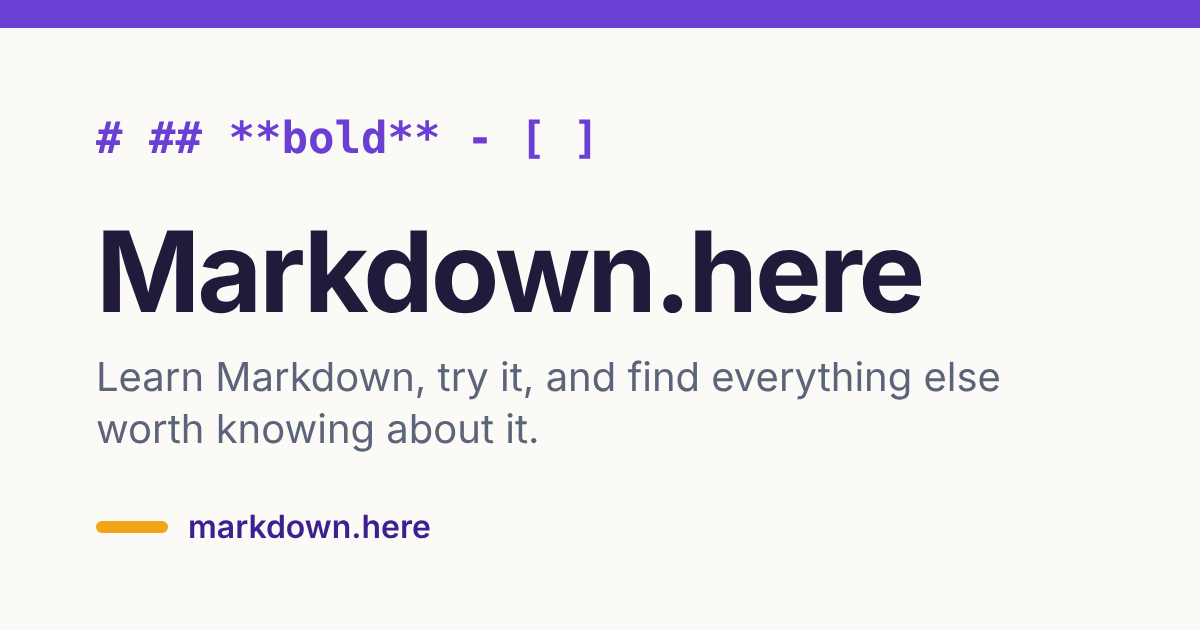
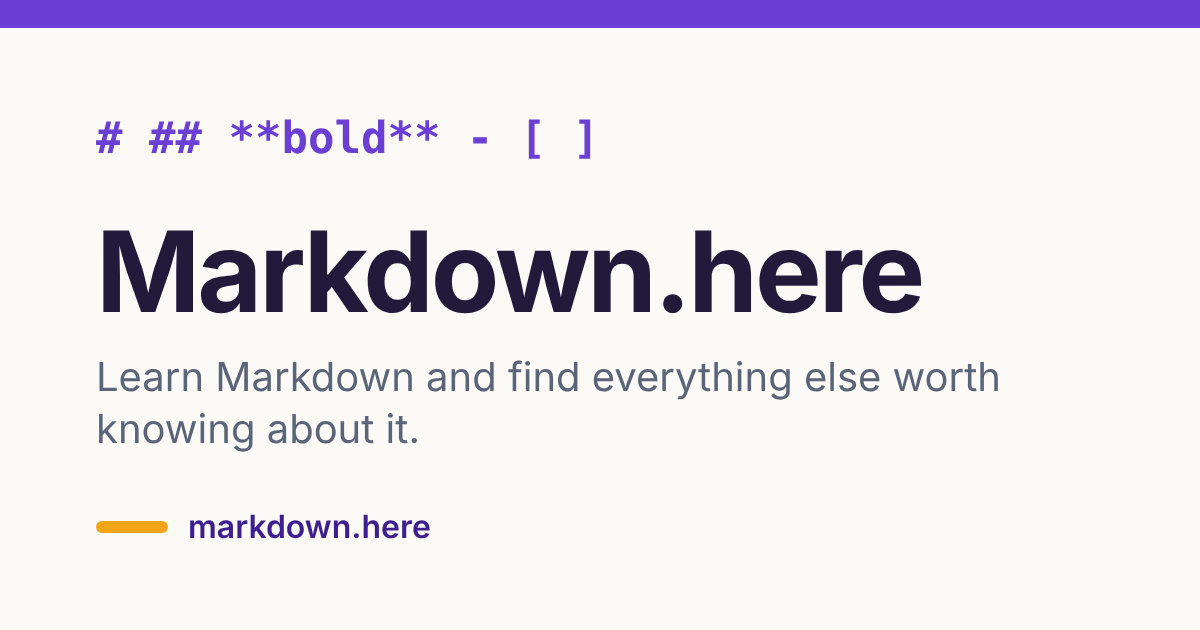
Website: less space above the home headline, drop "try it"
The home headline sat 72px below the top bar; now about 24px. The
tagline, site description, and share image no longer say "try it",
since the site has no place to try Markdown yet.

Claude-Session: https://claude.ai/code/session_01EPHxHaZryPxDov7n76b2BB

Changed region(s): [[0.3392, 0.573, 0.8325, 0.6333], [0.0617, 0.6635, 0.4625, 0.7238]]

diff --git a/site/assets/css/custom.css b/site/assets/css/custom.css
@@ -43,3 +43,7 @@
 /* Markdown headings inside code examples: the default grey is too faint */
 .chroma .gh, .chroma .gu { color: #3e1f8f; font-weight: 600; }
 .dark .chroma .gh, .dark .chroma .gu { color: #c9b8f7; }
+
+/* Home page: Hextra leaves a tall gap above the headline */
+.mdh-hero { margin-top: -1.5rem; }
+@media (max-width: 767px) { .mdh-hero { margin-top: -1rem; } }

diff --git a/site/content/_index.md b/site/content/_index.md
@@ -2,10 +2,10 @@
 type: Readme
 title: Markdown.here
 layout: hextra-home
-description: Learn Markdown, try it, and find everything else worth knowing about it.
+description: Learn Markdown and find everything else worth knowing about it.
 ---
 
-<div class="hx:mt-6 hx:mb-6">
+<div class="mdh-hero hx:mb-6">
 {{< hextra/hero-headline >}}
   Learn Markdown here
 {{< /hextra/hero-headline >}}
@@ -13,7 +13,7 @@ description: Learn Markdown, try it, and find everything else worth knowing abou
 
 <div class="hx:mb-12">
 {{< hextra/hero-subtitle >}}
-  Learn Markdown, try it, and find everything else worth knowing about it.
+  Learn Markdown and find everything else worth knowing about it.
 {{< /hextra/hero-subtitle >}}
 </div>
 
